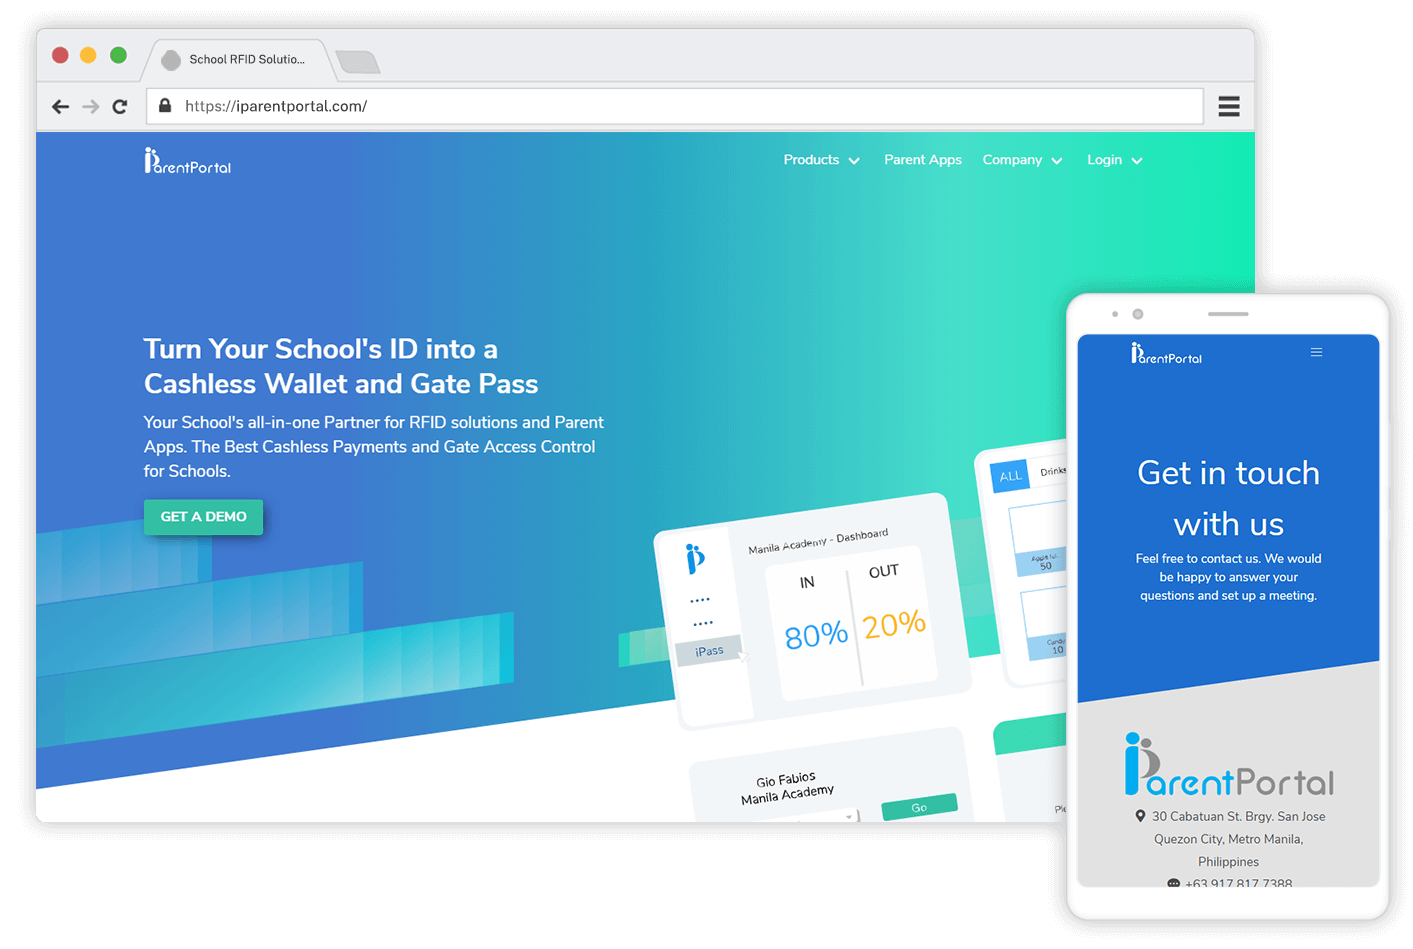
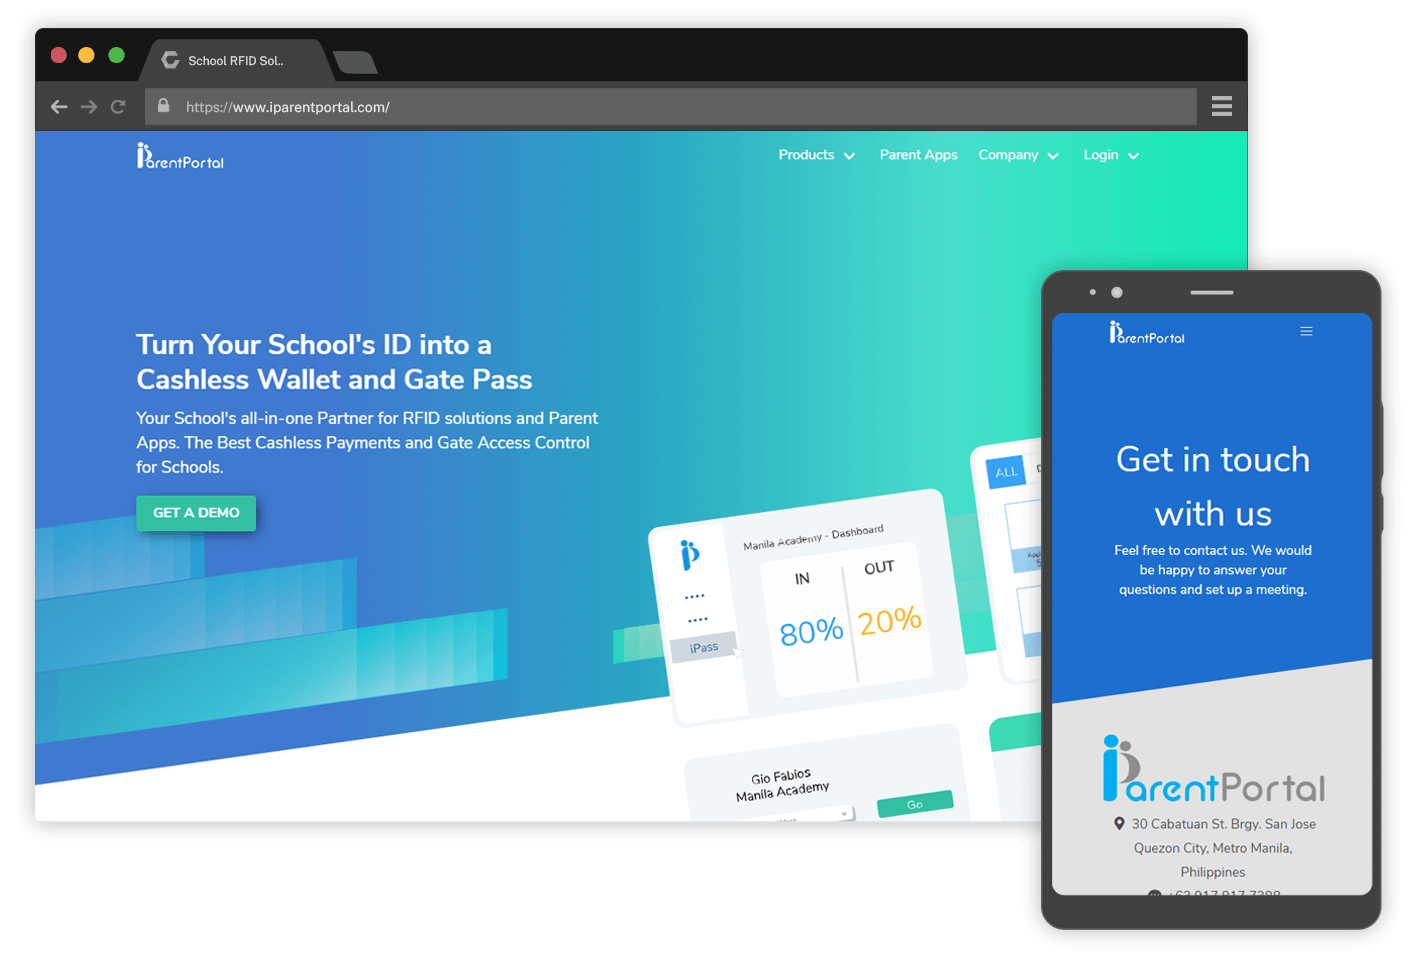
Change work page color theme

diff --git a/src/components/WorkIllusion.vue b/src/components/WorkIllusion.vue
@@ -1,23 +1,6 @@
 <template>
   <div class="illusion">
-    <svg version="1.1" id="Layer_4" xmlns="http://www.w3.org/2000/svg" xmlns:xlink="http://www.w3.org/1999/xlink" x="0px" y="0px"
-       viewBox="0 0 1000 414" enable-background="new 0 0 1000 414" xml:space="preserve" preserveAspectRatio="xMidYMax slice">
-    <path fill="#201B50" d="M610.7,0c-42.8,17-87,31.7-133.7,43c-62,14-121,18-182,35c-27,7-50,21-75,32c-14,6-23-12-31-13
-      C122.2,85.9,63.2,126.3,0,149v238.9c52.5-10.3,105.1-19.4,159-24.9c26-2,54-10,77,5c13,9,21,24,36,27c102,19,193-30,292-40
-      c7,0,15-1,22,1c23,6,45,9,69,5c75-13,146-22,221-26c42-2.3,83.1-10.2,124-20.1V0H610.7z"/>
-    <g>
-    </g>
-    <g>
-    </g>
-    <g>
-    </g>
-    <g>
-    </g>
-    <g>
-    </g>
-    <g>
-    </g>
-    </svg>
+    <svg xmlns="http://www.w3.org/2000/svg" viewBox="0 363.8 1000 406.3" preserveAspectRatio="xMidYMax slice"><path fill="#543A68" d="M610.7 363.8c-42.8 17-87 31.7-133.7 43-62 14-121 18-182 35-27 7-50 21-75 32-14 6-23-12-31-13-66.8-11.1-125.8 29.3-189 52v238.9c52.5-10.3 105.1-19.4 159-24.9 26-2 54-10 77 5 13 9 21 24 36 27 102 19 193-30 292-40 7 0 15-1 22 1 23 6 45 9 69 5 75-13 146-22 221-26 42-2.3 83.1-10.2 124-20.1V363.8H610.7z"/></svg>
   </div>
 </template>
 
